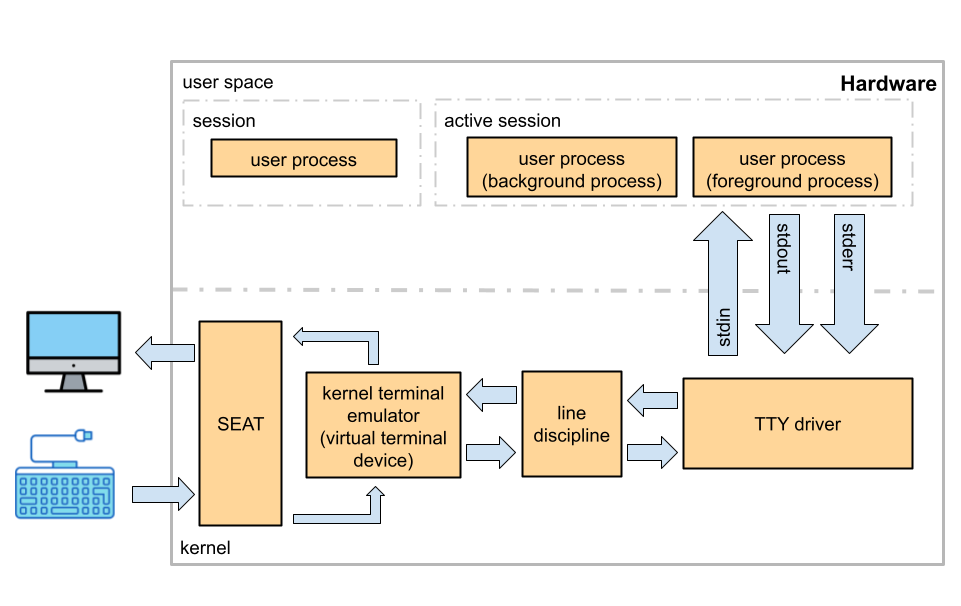
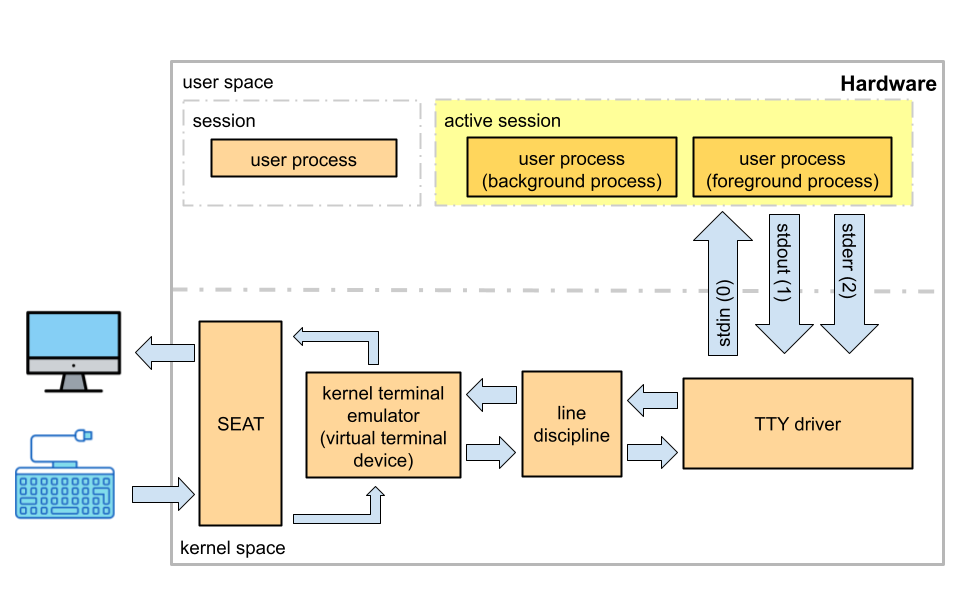
finish tty/pty

diff --git a/docs/projects/42/born_2be_root/03_tty.md b/docs/projects/42/born_2be_root/03_tty.md
@@ -4,57 +4,7 @@ sidebar_position: 3
 
 # What do PTY and TTY Mean?
 
-<!-- _back to:_ [implementation -> requiretty](./02_implementation.md#requiretty)
-_source:_ [baeldung -> "What do PTY and TTY mean?"](https://www.baeldung.com/linux/pty-vs-tty#what-is-a-pty)
-
-On the lowest level, most Linux system interactions use a text interface. There are many mechanisms to enable the system to provide as much information as possible at the users’ fingertips. Even before the use of a complex graphical user interface (GUI) with convenient windows and controls, there were command-line interface (CLI) tools to leverage these mechanisms.
-
-## Terminals Types
-
-Terminals are ways to provide input to and get output from a system.
-
-- **Hardware terminal:** i.e., [teletypewriters](https://simple.wikipedia.org/wiki/Teletypewriter), video display unit (VDU)[^vdu]
-- **Software terminal:** i.e., virtual TeleTYpe (TTY), which is the main interface of a Linux operating system
-- **Software pseudo-terminal:** i.e., PseudoTeletYpe (PTY), which allows emulating a TTY
-- **Software terminal emulator:** based on the previous ideas, but usually enhancing them via the actual or CLI-emulated GUI
-
-## What is a TTY?
-
-TTY is an acronym for teletype or teletypewriter. In essence, TTYs are devices that enable typing (type, typewriter) from a distance (tele).
-
-In a modern operating system (OS), the concept applies directly. Linux uses a device file to represent a virtual TTY, which enables interaction with the OS by handling input (usually a keyboard) and output (usually a screen).
-
-While Linux systems can have multiple TTYs, their number is usually limited by the configuration.
-
-Pure TTYs do allow communication, but they don’t provide much flexibility because at least one end of the TTY is (a keyboard, mouse, or another input device via) the kernel. On the other hand, a PTY can be linked to any application on both ends.
-
-## What is PTY?
-
-PTY is an acronym for pseudo-TTY. The name PTY stems from the fact that it behaves like a TTY but for any two endpoints. This minor difference enables multiple PTYs to co-exist within the context of the same TTY.
-
-In fact, both sides of a PTY have a name:
-
-slave, /dev/pts, represented by a file in /dev/pts/#
-master, ptm, which only exists as a file descriptor of the process, which requests a PTY
-This is where /dev/ptmx, the pseudo-terminal multiplexor device, comes in. Effectively, there are several steps to establish and use a PTY:
-
-A process opens /dev/ptmx
-The OS returns a master ptm file descriptor
-The OS creates a corresponding /dev/pts/# slave pseudo-device
-From this point, slave input goes to the master, while master input goes to the slave
-To know the correspondence between a master and slave, we can call the ptsname function.
-
-Basically, a PTY enables bi-directional communication similar to pipes. Unlike pipes, it provides a terminal interface to any process that requires it.
-
-What do we do with this power?
-
----
-
-[^vdu:]Short for video display unit, VDU is a computing device that allows input from a user and output to a display, like a computer monitor. A VDU consists of a display device and a keyboard and could include a mouse. In the United States, it is sometimes known as a video display terminal or VDT (video display terminal).
-
---- -->
-
----
+_source:_ [Ahmed Yakout](https://yakout.io/blog/terminal-under-the-hood/), [novaordis.com](https://kb.novaordis.com/index.php/Linux_TTY)
 
 ## TTY
 
@@ -85,10 +35,55 @@ A TTY (**T**ele**ty**pe) terminal session, refers to the interaction between a u
   | `ALT` + `F1`          | switch to the login screen                                |
   | `ALT` + `F2`          | switch GUI (e.g. Ubuntu)                                  |
 
-- **line discipline:** The kernel provides many line disciplines but only one is enabled by default and connected to a serial device. The default one, which provides line editing, is called N_TTY. This allows for editing (the internal buffer) with commands features like backspace, erase word, and clear line, it also handles special characters such as the interrupt character (CTRL + C). Advanced applications like vim and ssh disables these features by putting the line discipline into raw mode, so they can handle all these stuff themselves.
+- **line discipline:** The kernel provides many line disciplines but only one is enabled by default and connected to a serial device. The default one, which provides line editing, is called **N_TTY**. This allows for editing (the internal buffer) with commands features like backspace, erase word, and clear line, it also handles special characters such as the interrupt character (CTRL + C). Advanced applications like vim and ssh disables these features by putting the line discipline into raw mode, so they can handle all these stuff themselves. Line discipline is implemented by the TTY driver which is a kernel module.
 
 - **TTY driver:** implements session management which will help user to have many processes running at the same time and only interacting with foreground process which his/her input will be redirected to it and only the foreground process will be allowed to send output to the TTY device.
 
 - **TTY Sessions and Multiplexers:** TTY sessions can be managed using multiplexers like "tmux" or "screen". These tools allow users to create multiple terminal sessions within a single TTY, enabling the management of multiple tasks in a single terminal window.
 
 - **Physical Terminals:** e.g. teletypewriters, hard-copy, video display unit (VDU). In the past, physical terminals were dedicated hardware devices that allowed users to interact with mainframe computers. Modern systems typically use virtual terminals or terminal emulators.
+
+:::tip
+
+Some people use a tty to run commands instead of a terminal emulator in the GUI if they are doing a long running task (e.g system update or moving home directory to another hard disk) and they are afraid the graphical desktop environment (window manager) will crash or freezes causing issues to the task.
+
+:::
+
+## What’s a pseudo terminal PTY? (PTY vs TTY)
+
+Simply It’s Teletype emulated by a computer program running in the "**user space**", in contrast, TTY is a kernel program/emulator.
+
+:::info "kernel-space" vs "user-space"
+
+**Note:** The difference between kernel space and user space is that kernel space has access to the hardware directly while the user space interacts with the kernel only.
+
+:::
+
+PTY will behave like TTY, except that there is no attachment to a seat; you can open several terminal emulator windows at the same time (multiple PTYs) and display them side by side, having different sessions running in parallel.
+
+PTY is pair of master and slave sides, Writing to the master is exactly like typing on a terminal, thus the master pseudo-device acts like the person sitting in front of the physical computer text terminal, whereas the slave pseudo-device emulates a physical computer text terminal, so anything you write in the master will appear in the slave and anything written in the slave will appear to the master.
+
+when you open a terminal emulator program, it forks a process that requests a pty pair from the OS and starts a new session which is a group of processes running under control of a single user (i.e shell), it is defined by the first process that attach the pts (e.g bash).
+
+The slave part (pts) is represented by a file in **/dev/pts/N** where N is a number, you can know what slave your session is attached to using `tty` or `ps` commands.
+
+The master part (ptm), is not represented on the file system. It is represented by a file descriptor obtained by the system call that creates a pty.
+
+### Shells & Sessions
+
+A shell is what allows you to interact with your computer and OS, when I mention the word session , it means shell session which acts as a layer between the kernel and the user, so whenever you run a command in your terminal emulator it’s the shell (e.g bash) that listens for them on the PTY slave attached to it, captures them, communicate with the kernel then write the output back to the PTY slave which the TTY driver will see it and send it to the PTY master so it can be shown in the terminal emulator UI.
+
+The process that is running shell is known as session leader. Every other process that is running in the terminal is child of this session leader. These child processes form process groups that are controlled by this session leader (parent process), and when you logout from the terminal, kernel sends SIGHUP (kill -1) to the session leader, that will propagate this signal to each child process.
+
+Each session is managed by a session leader, the shell, which is cooperating tightly with the kernel using a complex protocol of signals and system calls.
+
+![pty](./img/pty.png)
+
+- _Example:_ What happens when you type ls command in terminal?
+
+1. You open the terminal emulator which requests a pty from the OS that will return a pair of file descriptors for the master and slave sides, then starts the bash program as a sub-process and attach it to the slave part.
+2. The terminal emulator sends the characters to the master side, the TTY driver takes the character echo them back to the master and buffers them.
+3. When you hit enter the TTY driver copies the characters in the buffer to the slave.
+4. The bash takes it’s input from the slave (std input steam points to pts) so when you type ls and press enter it will start a child sub-process, executes the command and writes the output to the std output which also points to the pts.
+5. The tty driver will take the output from pts and echo it to the master
+6. The terminal emulator program will redraw it’s GUI to show you the results of commands you typed.
